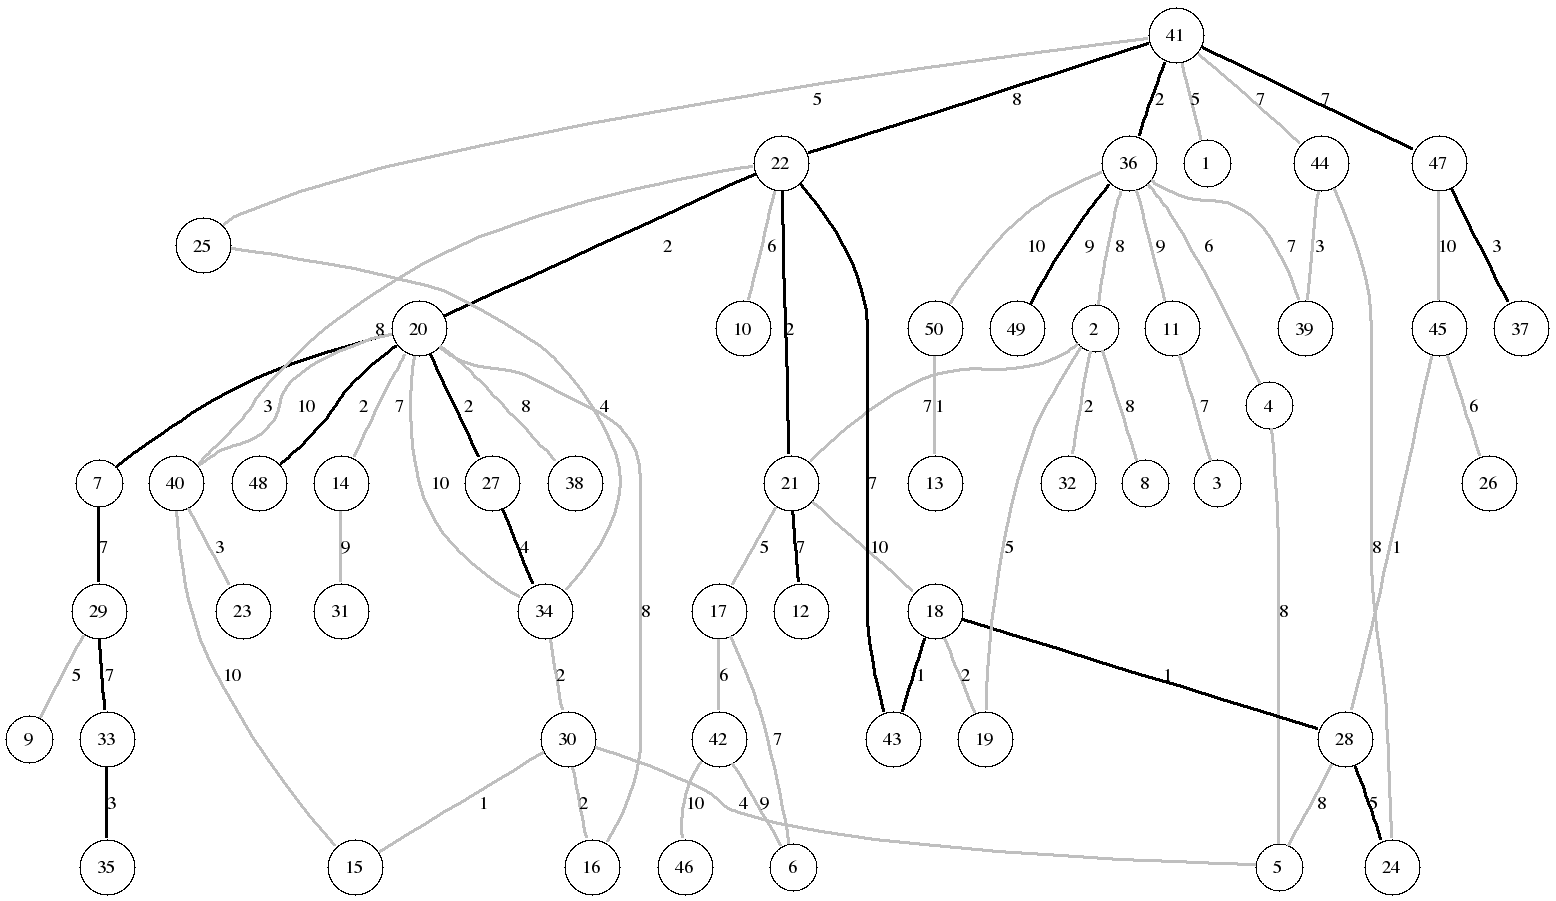
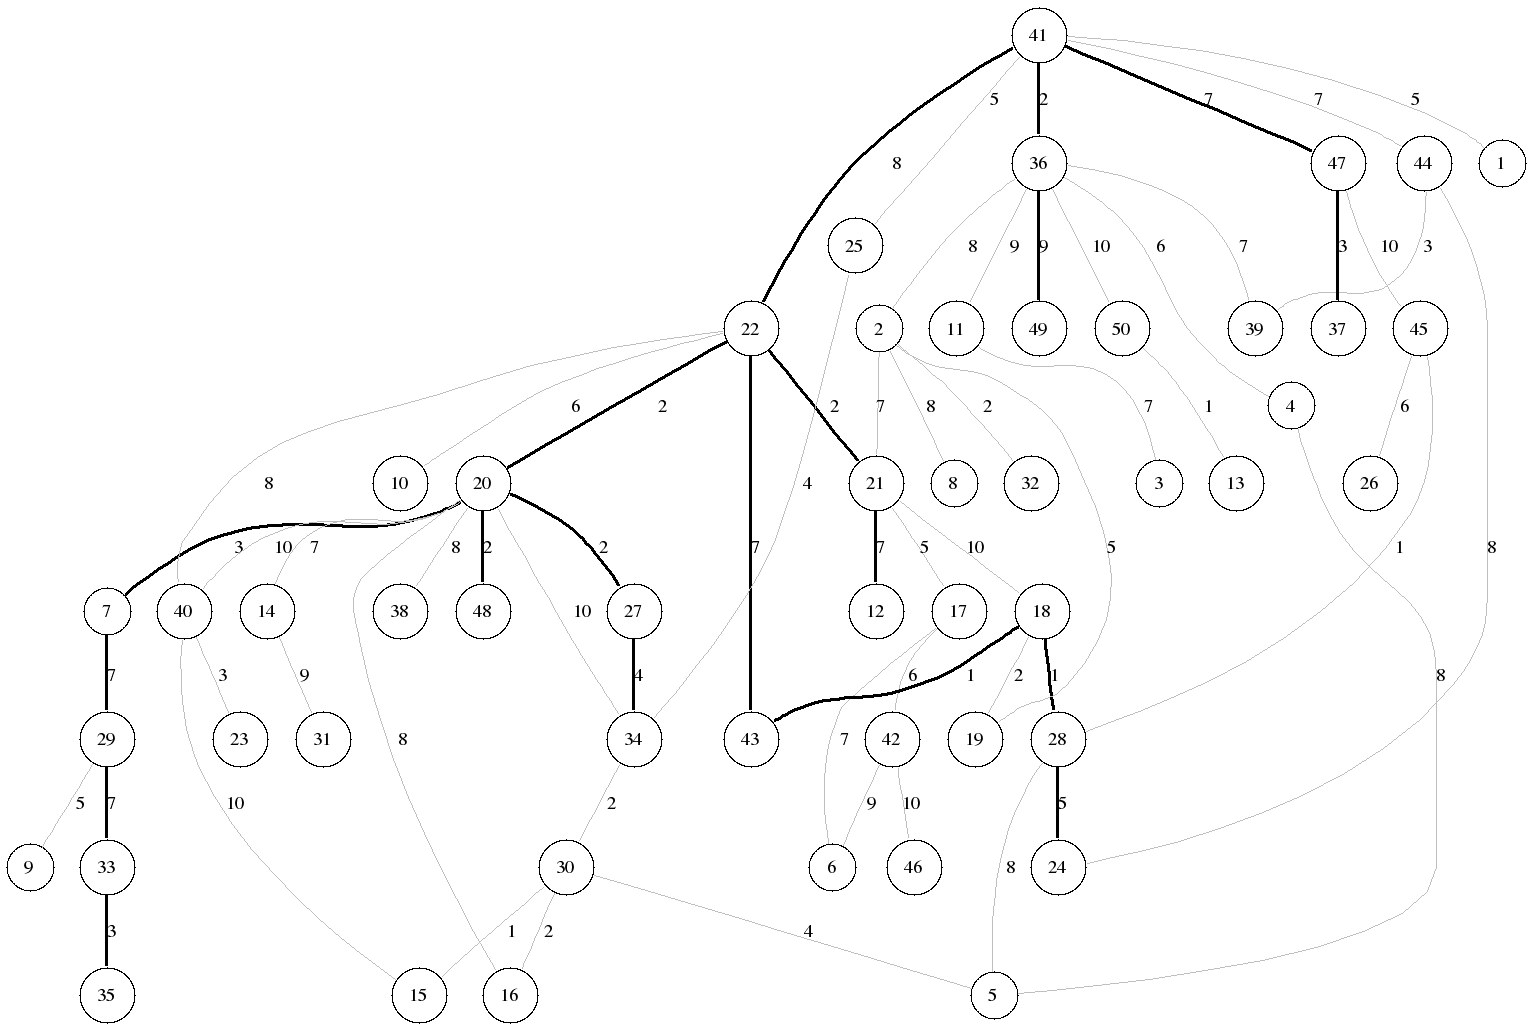
Approaching completion

diff --git a/classes/csce3110/project/report/report.tex b/classes/csce3110/project/report/report.tex
@@ -1,5 +1,5 @@
 \documentclass[titlepage,twoside,openright,12pt]{article}
-\usepackage[pdftex]{graphicx}
+\usepackage{graphicx}
 \title{Data Structures Final Project}
 \author{Cameron Lowell Palmer \and Kristina Ratliff \and Tyler Chamberlain \and Brian Stair}
 %\date{}
@@ -18,15 +18,6 @@ The algorithm is called the KMB algorithm after the initials of the authors. KMB
 requires an undirected graph but remains highly useful in solving multicasting 
 problems in a reasoable period of time.\\*[1Em]
 
-\section*{Running Time}
-KMB is a heuristic algorithm for finding Steiner trees with a worst case time
-complexity of $O(|S||V|^{2})$. It is guaranteed to yield a tree that spans $S$ with a
-total distance on its edges no more than $2(1 - \frac{1}{l})$ times that of the optimal
-tree, where $l$ is the number of leaves in the optimal tree. The paper \textit{Multicasting
-for High-Bandwidth Delay-Sensitive Multimedia Applications}\cite{ks:kpp} put the
-running time at $O(n^{3})$ to find the the shortest paths and $O(n^{2} \log n)$ for
-determining the tree where $n$ is the number of nodes in the graph.\\*[1Em]
-
 \section*{KMB Algorithm Steps}
 The algorithm can be broken down into the following steps:
 \begin{enumerate}
@@ -37,7 +28,6 @@ The algorithm can be broken down into the following steps:
 \item Reduce the graph by MST again to arbitrarily eliminate duplicate links.
 \item Construct a Steiner tree by deleting any leftover links (not Steiner points).
 \end{enumerate}
-\includegraphics{kmb.png}
 
 \section*{Implementation}
 We implemented the program using the Boost (http://www.boost.org/) C++ graph 
@@ -62,6 +52,74 @@ algorithms yields a good result. We had initially considered several
 algorithms of our own devising, but we always ran into the same problem of high
 running times because we were brute-forcing the graph. We spent a lot of time
 considering how to reduce the graph in an efficient manner.\\*[1Em]
+
+\section*{Steinlib Graphs}
+One of our discoveries was that creating graphs is really hard to do well. When 
+you sit down and draw a graph you often substitute spacial randomness for really
+complex graphs. We discovered that the Steinlib project provides complex graphs
+with large numbers of nodes and edges. A wide variety of Steinlib input files 
+can be downloaded from http://elib.zib.de/steinlib/testset.php.
+
+The basic graph provided in the project documentation is used as the example in
+this document of input and output. The following section Other Example Graphs are
+datasets B01-B05 from Steinlib.
+
+\pagebreak
+\begin{verbatim}
+33D32945 STP File, STP Format Version 1.0
+
+SECTION Comment
+Name    "Project Graph"
+Creator "Xiaohui Yuan"
+Remark  "The basic project graph"
+END
+
+SECTION Graph
+Nodes 7
+Edges 10
+E 0 1 6
+E 0 2 2 
+E 0 3 1 
+E 1 2 3
+E 1 4 1
+E 2 5 1
+E 3 5 3
+E 3 6 3
+E 4 5 3
+E 5 6 2
+END
+
+SECTION Terminals
+Terminals 3
+T 0
+T 4
+T 6
+END
+
+EOF
+\end{verbatim}
+\begin{center}
+\includegraphics[height=3.00in]{project.eps}
+\end{center}
+
+\section*{Other Example Graphs}
+\includegraphics[keepaspectratio=true,width=\linewidth,height=\textheight]{b01.eps}
+\includegraphics[keepaspectratio=true,width=\linewidth,height=\textheight]{b02.eps}
+\includegraphics[keepaspectratio=true,width=\linewidth,height=\textheight]{b03.eps}
+\includegraphics[keepaspectratio=true,width=\linewidth,height=\textheight]{b04.eps}
+\includegraphics[keepaspectratio=true,width=\linewidth,height=\textheight]{b05.eps}
+
+\section*{Running Time}
+KMB is a heuristic algorithm for finding Steiner trees with a worst case time
+complexity of $O(|S||V|^{2})$. It is guaranteed to yield a tree that spans $S$ with a
+total distance on its edges no more than $2(1 - \frac{1}{l})$ times that of the optimal
+tree, where $l$ is the number of leaves in the optimal tree. The paper \textit{Multicasting
+for High-Bandwidth Delay-Sensitive Multimedia Applications}\cite{ks:kpp} put the
+running time at $O(n^{3})$ to find the the shortest paths and $O(n^{2} \log n)$ for
+determining the tree where $n$ is the number of nodes in the graph.\\*[1Em]
+
+Our implementation ran with zero run time on all the graphs we tested and
+made measurement in seconds difficult.
 
 \section*{Conclusion}
 The beauty of the KMB graph is its ability to reduce a tough problem using two

diff --git a/classes/csce3110/project/kmb.cpp b/classes/csce3110/project/kmb.cpp
@@ -38,16 +38,17 @@ int main(int argc, char* argv[])
    in.open(infile.c_str());
    dot_file.open(outfile.c_str());
    
-   boost::regex re_nodes("^\\s*n\\s+(\\d+)\\s*$", boost::regex::perl);
-   boost::regex re_start("^\\s*s\\s+(\\d+)\\s*$", boost::regex::perl);
-   boost::regex re_dest("^\\s*d\\s+(\\d+)\\s*$", boost::regex::perl);
-   boost::regex re_vertex("^\\s*v\\s+(\\d+)\\s+(\\d+)\\s+(\\d+)\\s*$", boost::regex::perl);
+   boost::regex re_nodes("^\\s*Nodes\\s+(\\d+)\\s*$", boost::regex::perl);
+   boost::regex re_dest("^\\s*T\\s+(\\d+)\\s*$", boost::regex::perl);
+   boost::regex re_vertex("^\\s*E\\s+(\\d+)\\s+(\\d+)\\s+(\\d+)\\s*$", boost::regex::perl);
+   boost::regex re_pos("^\\s*DD\\s+(\\d+)\\s+(\\d+)\\s+(\\d+)\\s*$", boost::regex::perl);
    boost::cmatch matches;
    
    int nodes = 0;
    vector<int> weights;
    set<int> starts;
    vector<E> edge_array;
+   map<int, E> pos_info;
    
    string str;
    getline(in, str);
@@ -55,10 +56,15 @@ int main(int argc, char* argv[])
    {
       if (boost::regex_match(str.c_str(), matches, re_nodes))
          nodes = boost::lexical_cast<int>(matches[1]);
-      else if (boost::regex_match(str.c_str(), matches, re_start))
-         starts.insert(boost::lexical_cast<int>(matches[1]));
       else if (boost::regex_match(str.c_str(), matches, re_dest))
          starts.insert(boost::lexical_cast<int>(matches[1]));
+      else if (boost::regex_match(str.c_str(), matches, re_pos))
+      {
+         int node = boost::lexical_cast<int>(matches[1]);
+         int x = boost::lexical_cast<int>(matches[2]);
+         int y = boost::lexical_cast<int>(matches[3]);
+         pos_info[node] = E(x, y);
+      }  
       else if (boost::regex_match(str.c_str(), matches, re_vertex))
       {
          int u = boost::lexical_cast<int>(matches[1]);
@@ -210,7 +216,7 @@ int main(int argc, char* argv[])
    
    // Generate the DOT file
    dot_file << "graph G {\n"
-      << "  edge[style=\"bold\"]\n" << "  node[shape=\"circle\"]\n";
+      << "  node[shape=\"circle\"]\n";
 
    graph_traits <Graph>::edge_iterator ei, ei_end;
    for (tie(ei, ei_end) = edges(g); ei != ei_end; ++ei)
@@ -219,9 +225,11 @@ int main(int argc, char* argv[])
       graph_traits <Graph>::vertex_descriptor u = source(e, g), v = target(e, g);
       dot_file << u << " -- " << v
          << " [label=\"" << get(weightmap, e) << "\"";
+      if (pos_info.find(u) != pos_info.end())
+         dot_file << ", pos=\"" << pos_info[u].first << "," << pos_info[u].second << "\"";
       //cout << u << " " << v << " " << p[v] << endl;
       if (kmb_edges_map.find(E(u, v)) != kmb_edges_map.end() || kmb_edges_map.find(E(v, u)) != kmb_edges_map.end())
-         dot_file << ", color=\"black\"";
+         dot_file << ", color=\"black\", style=bold, weight=10";
       else
          dot_file << ", color=\"grey\"";
       dot_file << "]\n";
